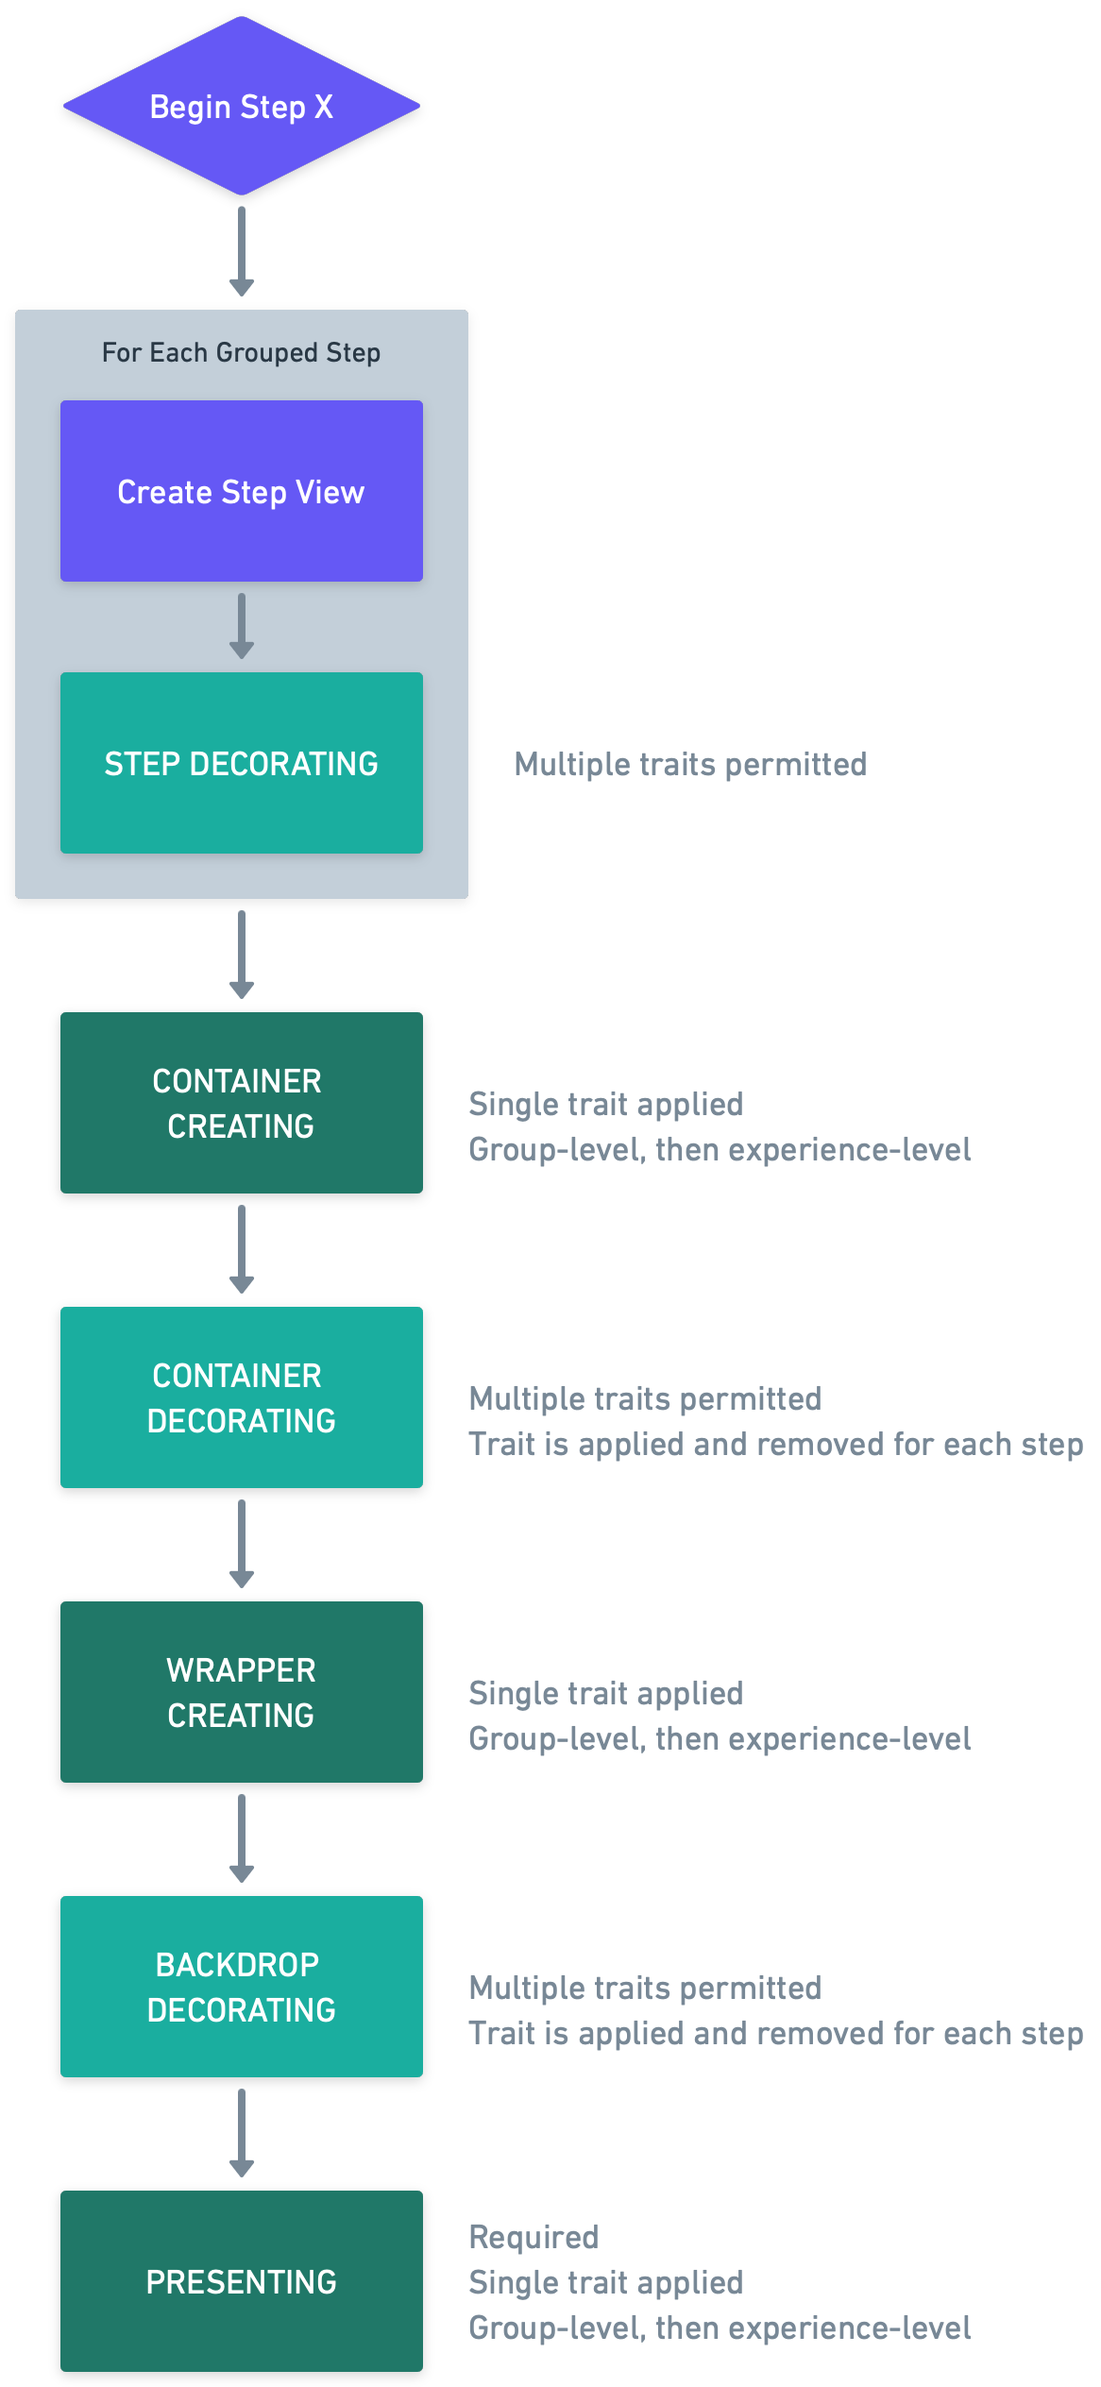
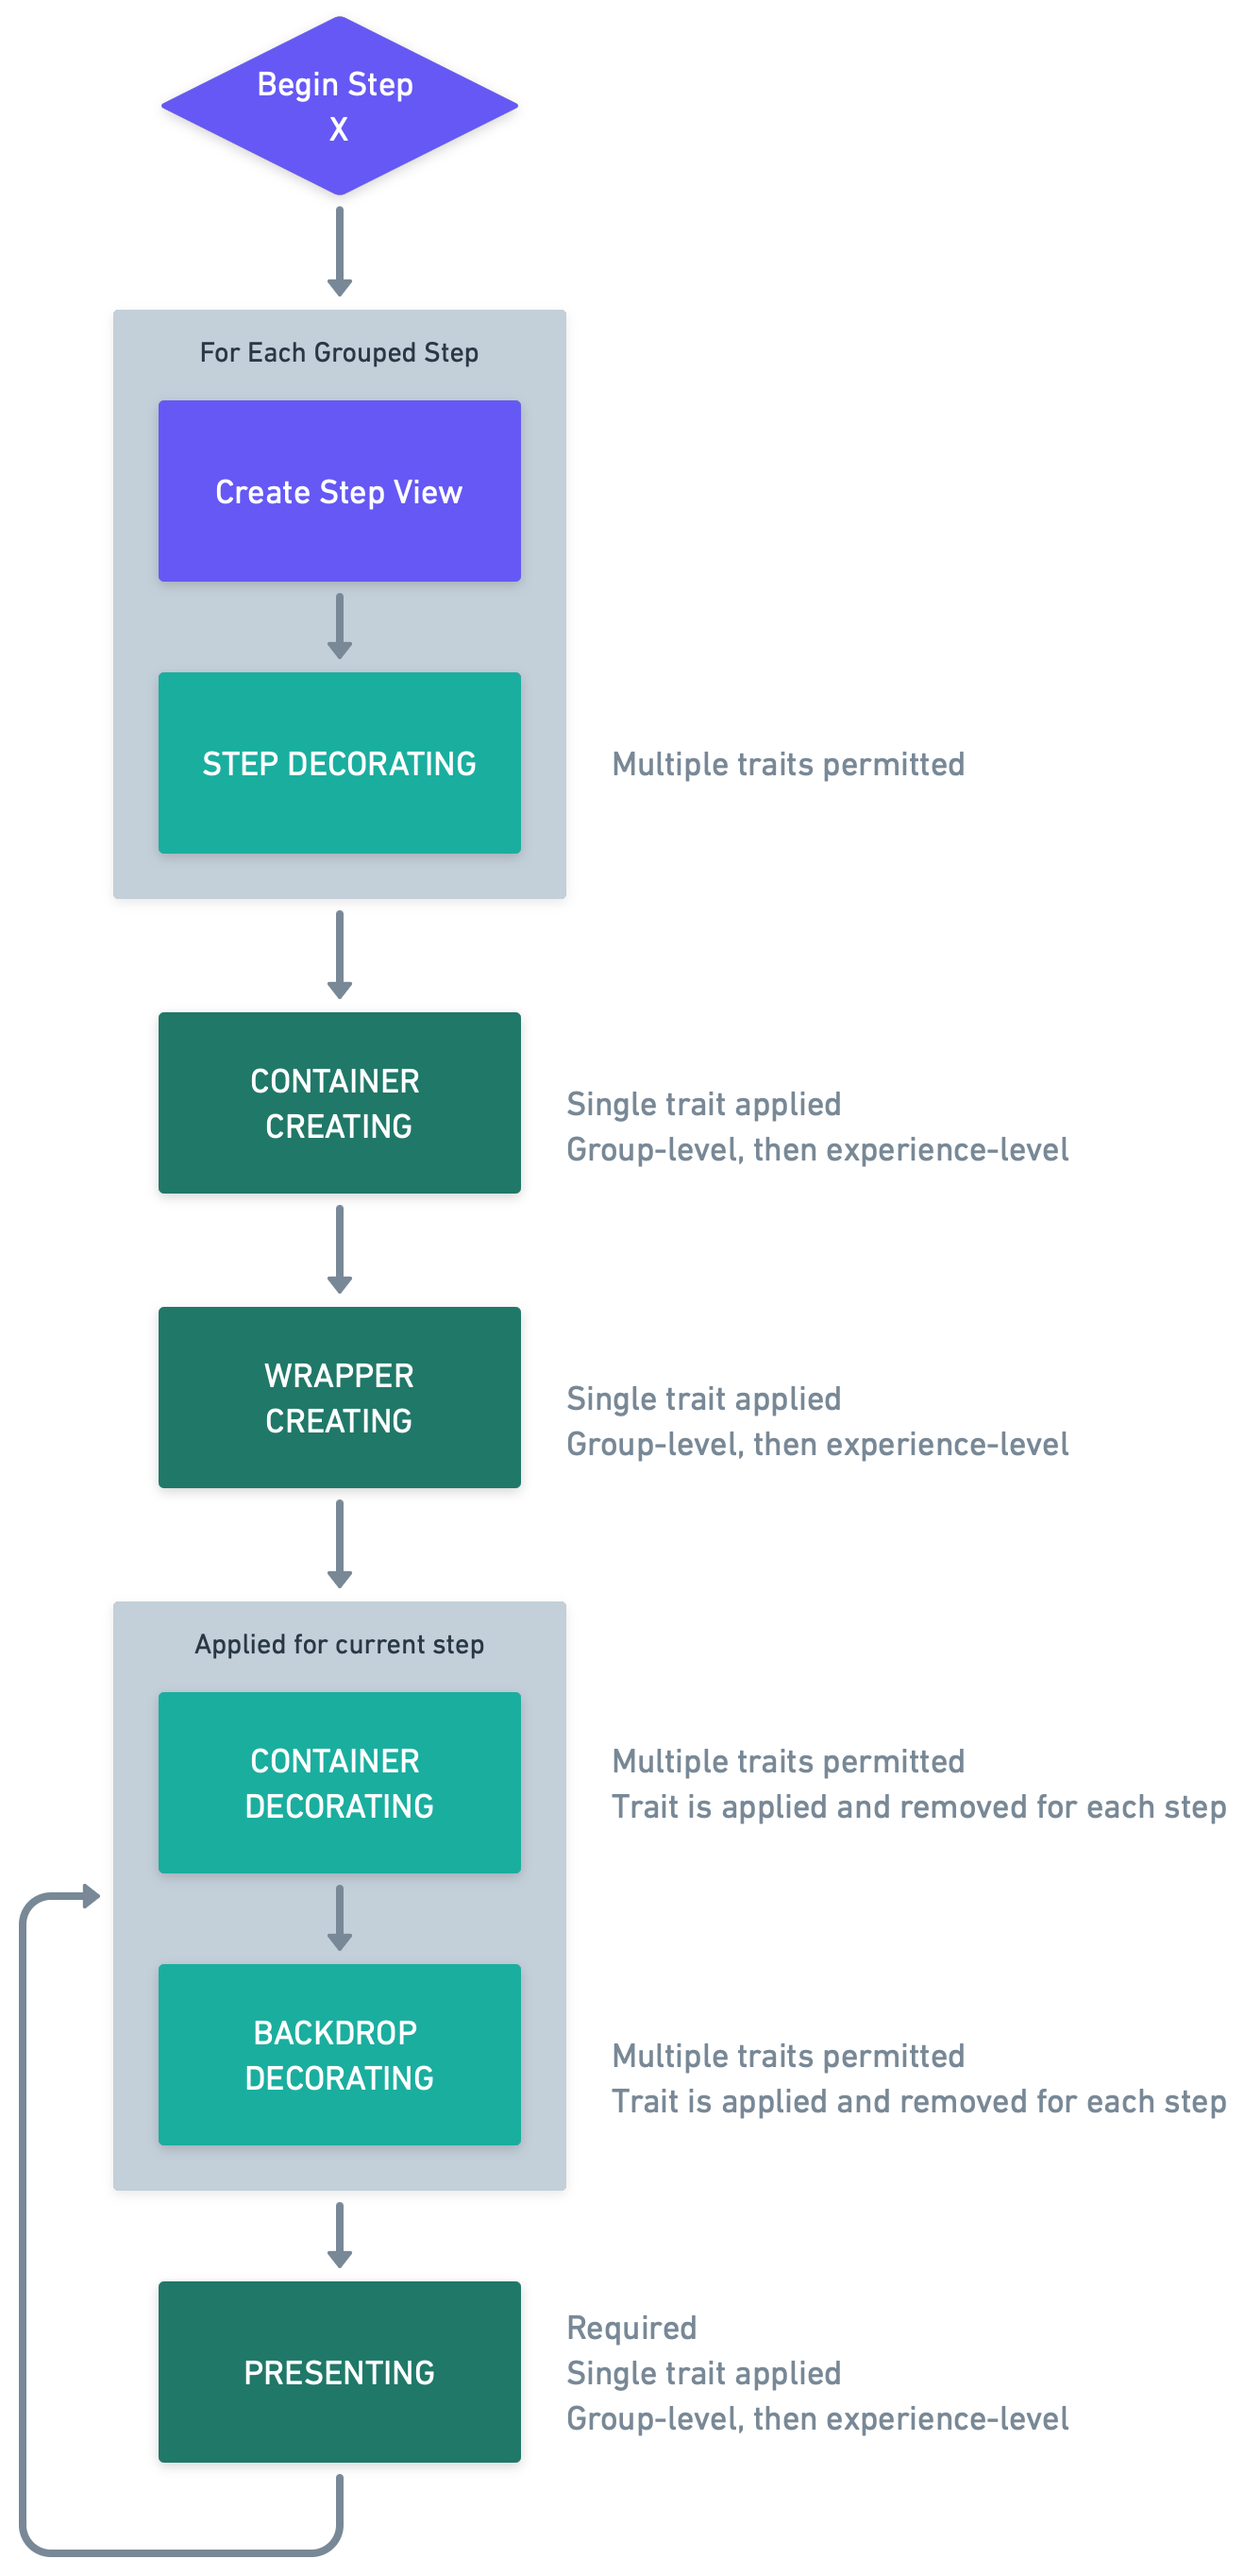
📝 Update Trait Application Sequence diagram

Changed region(s): [[0.0, 0.0, 0.988, 1.0], [0.8645, 0.8125, 0.988, 0.875], [0.8645, 0.5938, 0.988, 0.625]]

diff --git a/Sources/AppcuesKit/AppcuesKit.docc/Traits.md b/Sources/AppcuesKit/AppcuesKit.docc/Traits.md
@@ -135,7 +135,7 @@ func decorate(containerController: ExperienceContainerViewController) throws {
 
 Trait capabilities are applied in a defined sequence, and a trait with multiple capabilities will have its capabilities applied piecewise.
 
-![Begin Step X -> Create Step View -> Step Decorating -> Container Creating -> Container Decorating -> Wrapper Creating -> Backdrop Decorating -> Presenting](trait-flow.png)
+![Begin Step X -> Create Step View -> Step Decorating -> Container Creating -> Wrapper Creating -> Container Decorating -> Backdrop Decorating -> Presenting](trait-flow.png)
 
 > A trait with multiple capabilities may, in certain circumstances, not have all its capabilities applied. An ``AppcuesBackdropDecoratingTrait`` will not be applied if no ``AppcuesWrapperCreatingTrait`` is present. Additionally, single trait capabilities (i.e. ``AppcuesContainerCreatingTrait``, ``AppcuesWrapperCreatingTrait``, and ``AppcuesPresentingTrait``) will ignore all but the first trait model in the most specific context that provides the capability. Additionally, ``AppcuesContainerCreatingTrait``, ``AppcuesWrapperCreatingTrait``, and ``AppcuesPresentingTrait`` capabilities provided at the step level within a group are ignored.
 
